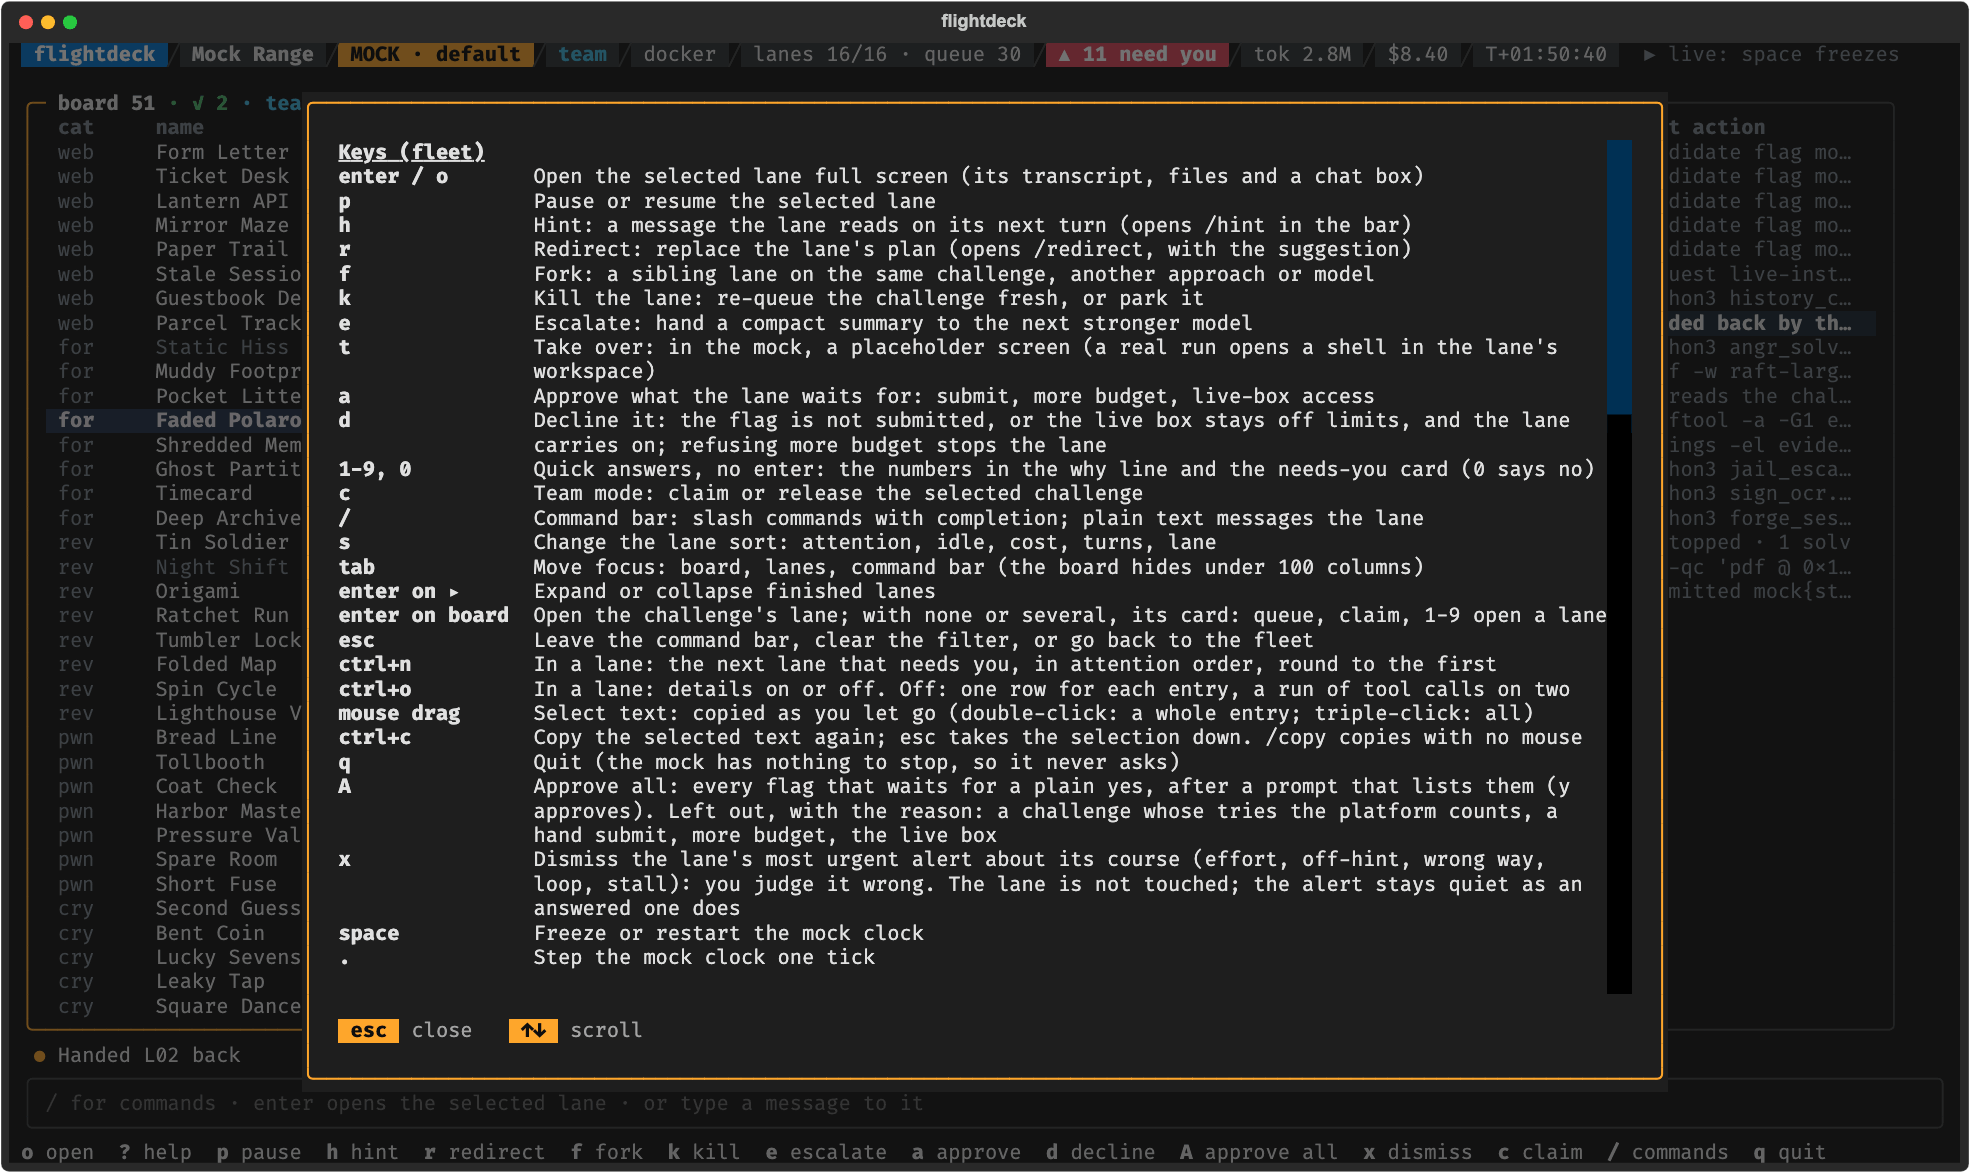
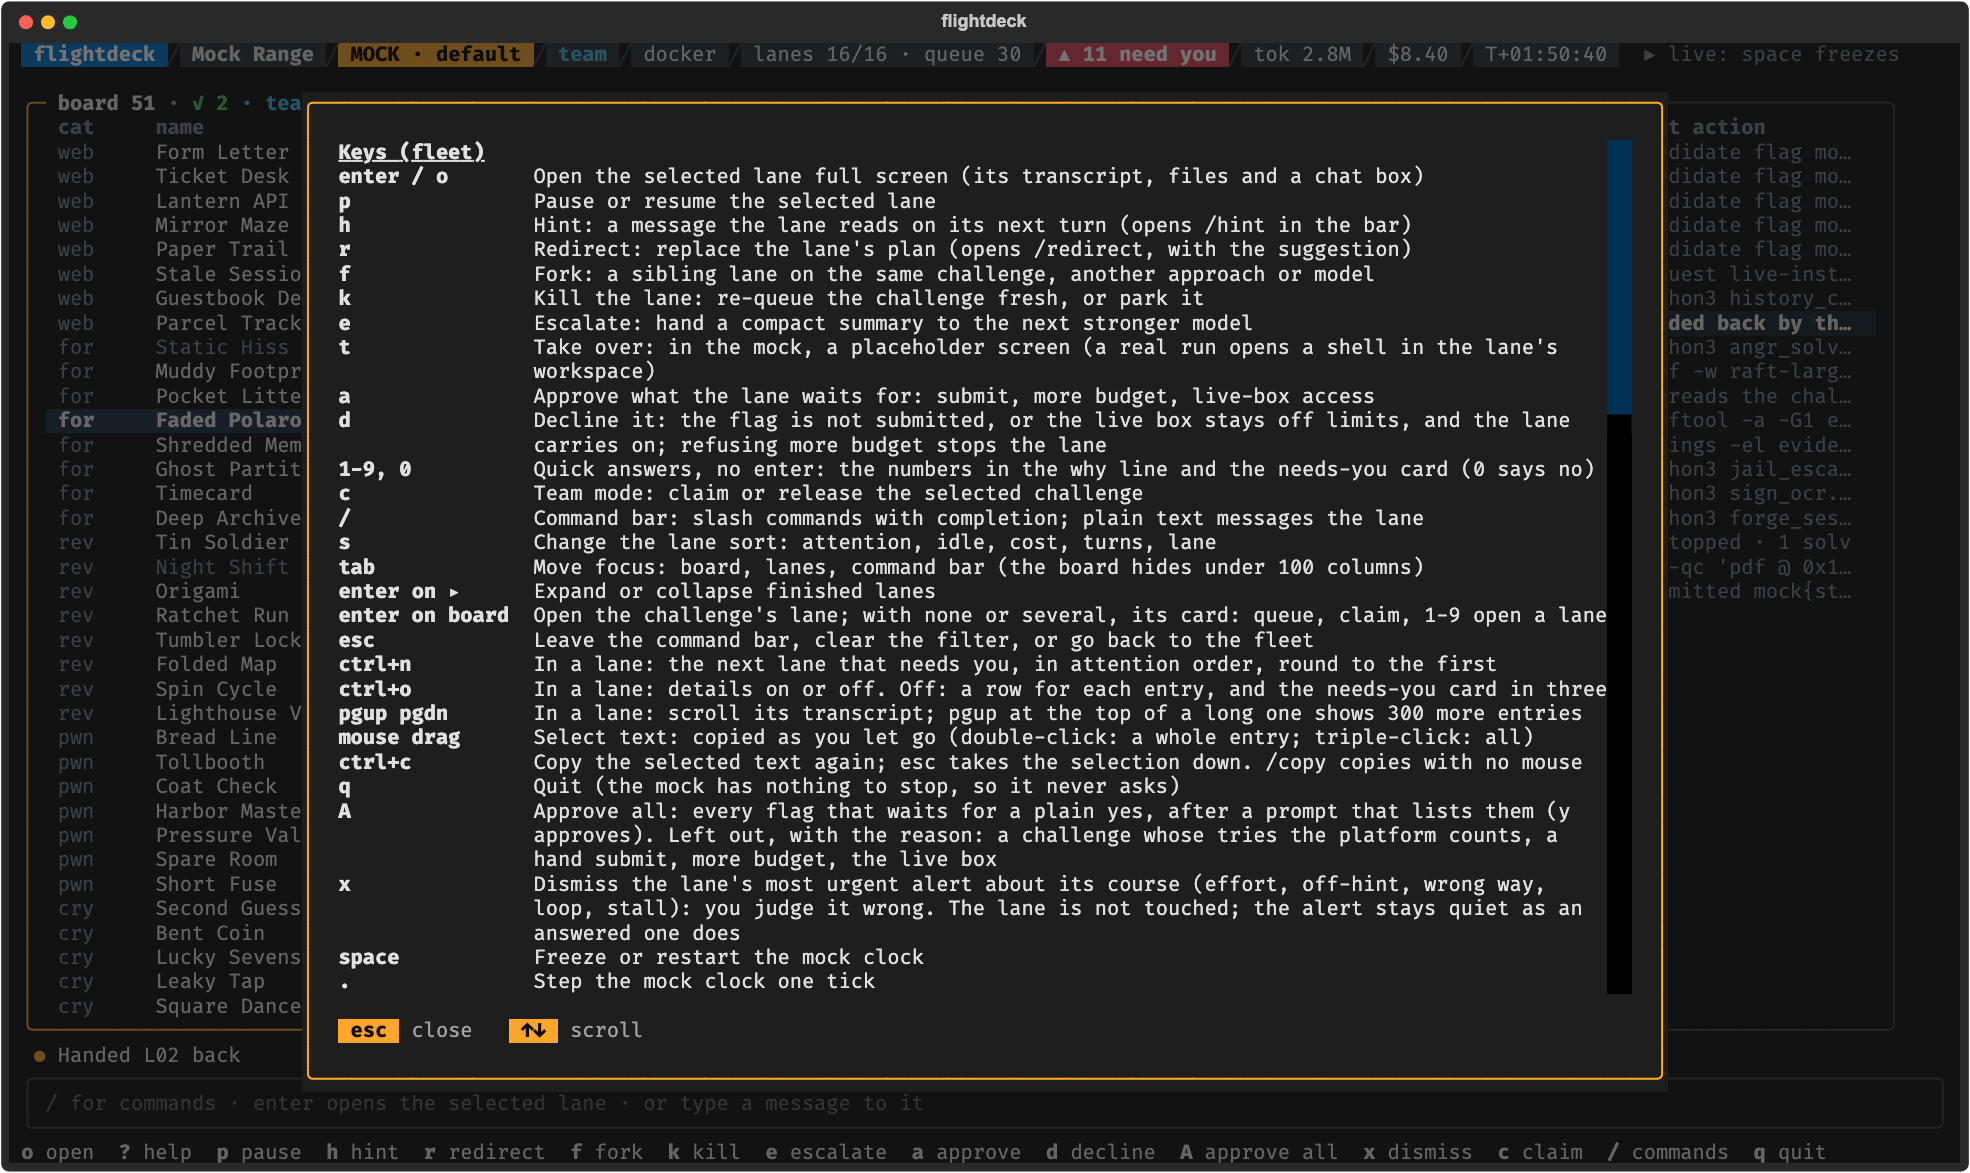
Docs: the help and command bar pictures again, and what the lane pictures show
Every picture was made again from flightdeck mock --screenshot (each scenario,
drawn from the SVG by a browser, 128 colours) and compared with the one in the
docs: 20 of 22 are the same to the pixel. help has the two rows that changed
(ctrl+o, pgup pgdn); in command-bar the menu's scroll thumb is a little shorter,
since the menu has /copy and /details. SCREENSHOTS says that the deck layout's
lane is the detailed one and ctrl+o switches, and what help lists.

Claude-Session: https://claude.ai/code/session_01GzPi8FbmkTGAi5YtkeDgSR

Changed region(s): [[0.2787, 0.5831, 0.8051, 0.8593], [0.1548, 0.5831, 0.2477, 0.6752], [0.1548, 0.798, 0.2168, 0.8286]]

diff --git a/docs/SCREENSHOTS.md b/docs/SCREENSHOTS.md
@@ -69,6 +69,9 @@ A lane heading the wrong way on a web challenge.
 ![A lane full screen: its transcript, the files it changed with a diff, and a card for what needs you](screenshots/lane.png)
 
 `enter` opens a lane: every step it took, the files it changed, and what it needs from you.
+The deck layout shows a lane in detail: every line of each command and its output, and the
+full card, each alert with its reason and its answers as commands. `ctrl+o` switches to the
+calm view the simple layout opens in (above), and back; `/details` does the same.
 
 ![Chatting with a lane from its full-screen view](screenshots/chat.png)
 
@@ -137,7 +140,9 @@ picture of it here yet: make your own with that command.
 
 ![The help screen listing every key and command](screenshots/help.png)
 
-`?` shows every key and command.
+`?` shows every key and command (in a lane, where the chat box takes what you type, `/help`
+does): `ctrl+o` for a lane's details, `pgup` and `pgdn`, the mouse drag that copies and
+`ctrl+c` are in the list.
 
 ## Themes
 
